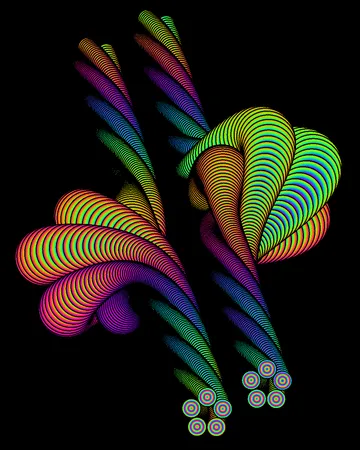
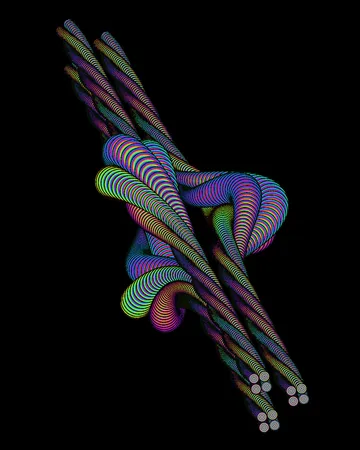
flowers-shaders previews

diff --git a/src/templates/p5/sketches/flowers-shaders/flowers-shaders-v1-melted/options.ts b/src/templates/p5/sketches/flowers-shaders/flowers-shaders-v1-melted/options.ts
@@ -10,25 +10,25 @@ export const formValues = {
     easing: "linear"
   },
   flower: {
-    sides: 2,
-    flowerPetals: 5,
-    sizeMin: 99,
-    sizeMax: 293,
+    sides: 3,
+    flowerPetals: 4,
+    sizeMin: 68,
+    sizeMax: 213,
     rotationSpeed: 0.39,
-    innerRotationGain: 9.8,
-    borderWidth: 2,
-    borderDarken: 0
+    innerRotationGain: 17.9,
+    borderWidth: 1.5,
+    borderDarken: 0.07
   },
   colors: {
-    hueSpeed: 1,
-    hueSpread: 1.5,
+    hueSpeed: -5.68,
+    hueSpread: 1.78,
     huePhase: 0,
-    pathHueShift: 1.5,
-    sideHueShift: 0.6,
-    petalHueShift: 0.25,
-    shimmer: 1.8,
-    saturation: 1,
-    brightness: 1
+    pathHueShift: -6.28,
+    sideHueShift: 3.56,
+    petalHueShift: 1.32,
+    shimmer: 1.94,
+    saturation: 0.82,
+    brightness: 1.01
   },
   aberration: {
     amount: 0,
